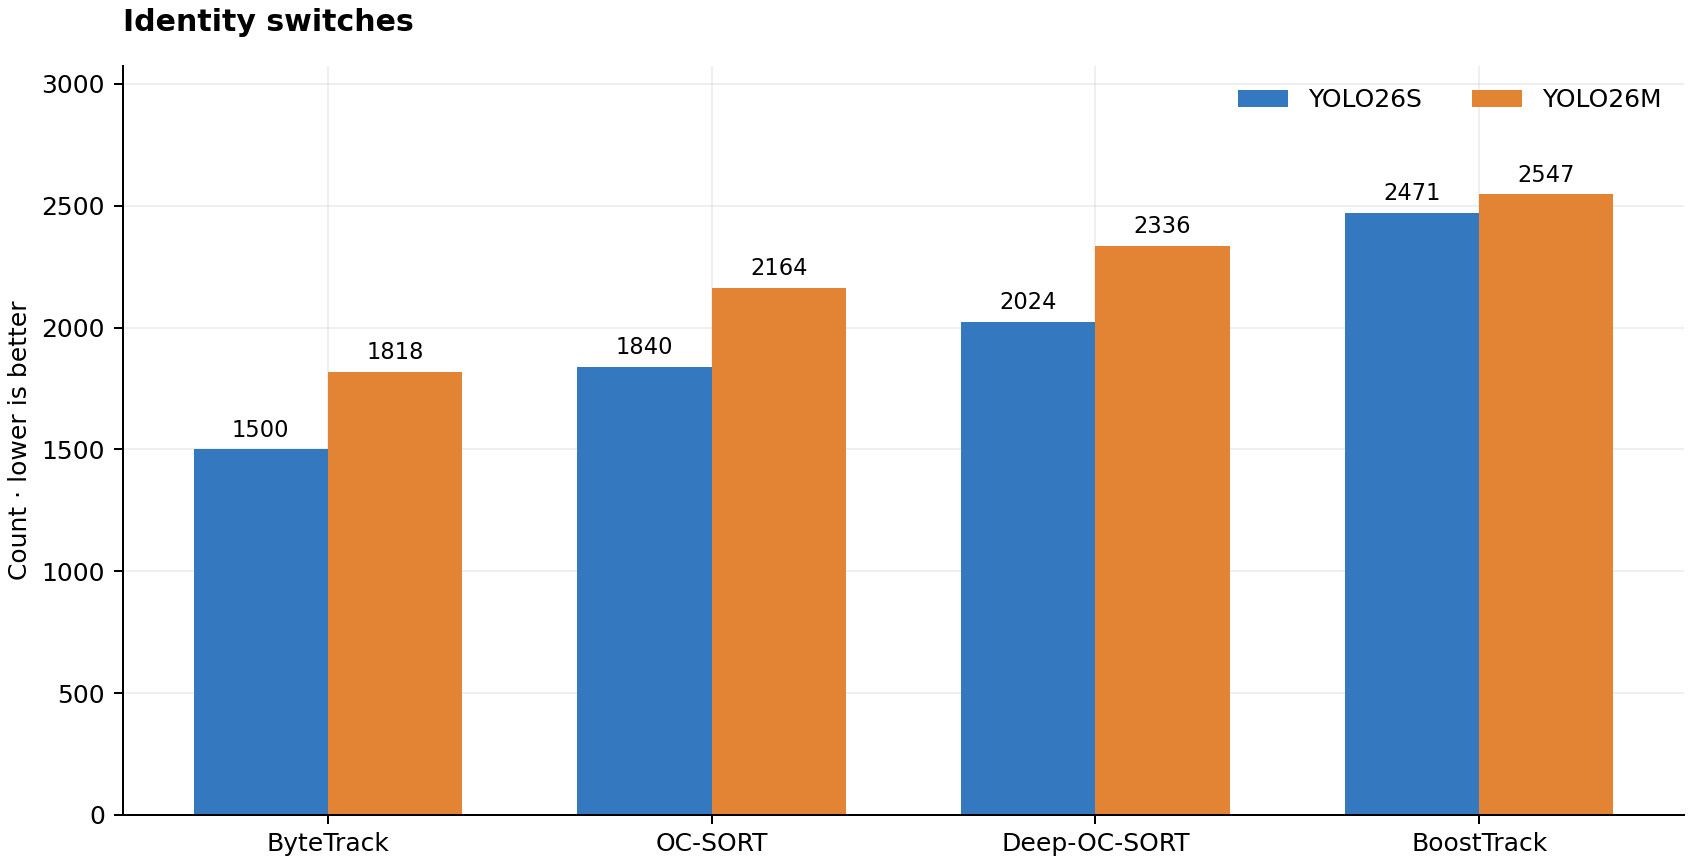
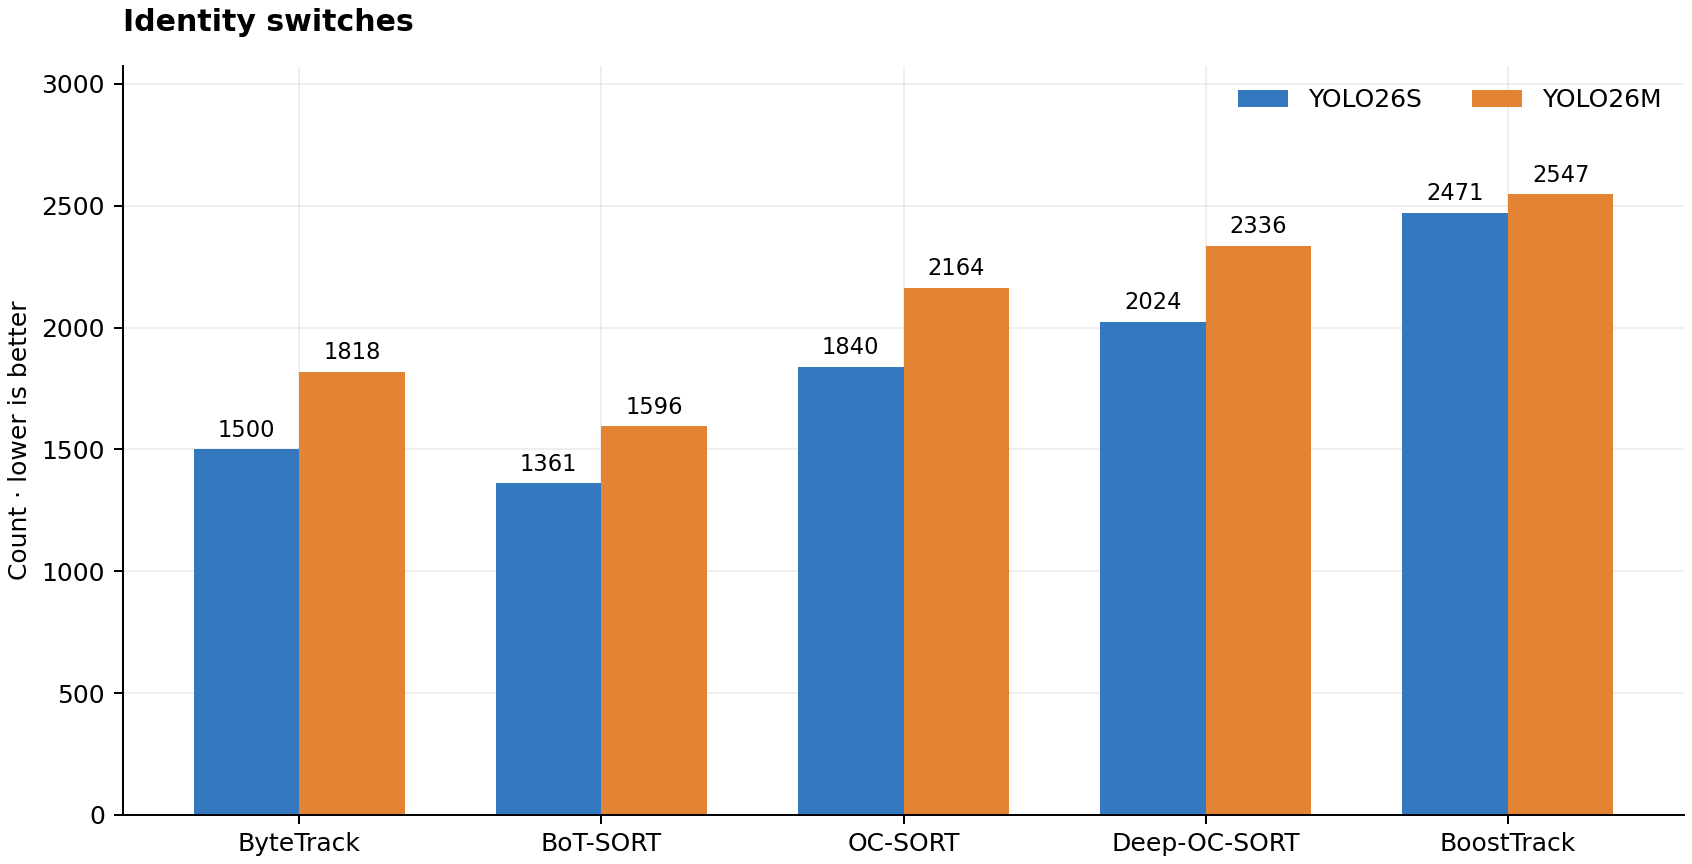
Include BoT-SORT in performance comparison figures

diff --git a/scripts/plot_comparison.py b/scripts/plot_comparison.py
@@ -18,8 +18,11 @@ with (RESULTS / 'comparison.csv').open(newline='') as handle:
     runs = list(csv.DictReader(handle))
 with (RESULTS / 'detection_metrics.csv').open(newline='') as handle:
     detection = {row['']: row for row in csv.DictReader(handle)}
+with (RESULTS / 'botsorttrack' / 'model_metrics.csv').open(newline='') as handle:
+    botsort = {row['Model']: row for row in csv.DictReader(handle)}
 
 trackers = ['ByteTrack', 'OC-SORT', 'Deep-OC-SORT', 'BoostTrack']
+accuracy_trackers = ['ByteTrack', 'BoT-SORT', 'OC-SORT', 'Deep-OC-SORT', 'BoostTrack']
 models = ['yolo26s', 'yolo26m']
 colors = {'yolo26s': '#3478C0', 'yolo26m': '#E38435'}
 by_key = {(row['detector'], row['tracker']): row for row in runs}
@@ -36,15 +39,23 @@ plt.rcParams.update({
 })
 
 
-def grouped_chart(field: str, title: str, ylabel: str, filename: str, digits: int = 1) -> None:
+def grouped_chart(field: str, title: str, ylabel: str, filename: str,
+                  digits: int = 1, include_botsort: bool = False) -> None:
     fig, ax = plt.subplots(figsize=(9.4, 4.8), layout='constrained')
-    x = np.arange(len(trackers))
+    labels = accuracy_trackers if include_botsort else trackers
+    x = np.arange(len(labels))
     width = 0.35
     for offset, model in [(-width / 2, 'yolo26s'), (width / 2, 'yolo26m')]:
-        values = [float(by_key[(model, tracker)][field]) for tracker in trackers]
+        values = [
+            float(botsort[model][{
+                'HOTA': 'HOTA (%)', 'IDF1': 'IDF1 (%)', 'MOTA': 'MOTA (%)',
+                'ID_switches': 'ID Switches', 'fragmentations': 'Frag',
+            }[field]]) if tracker == 'BoT-SORT' else float(by_key[(model, tracker)][field])
+            for tracker in labels
+        ]
         bars = ax.bar(x + offset, values, width, label=model.upper(), color=colors[model])
         ax.bar_label(bars, labels=[f'{value:.{digits}f}' for value in values], padding=3, fontsize=9)
-    ax.set_xticks(x, trackers)
+    ax.set_xticks(x, labels)
     ax.set_title(title, loc='left', weight='bold', pad=14)
     ax.set_ylabel(ylabel)
     ax.set_ylim(0, ax.get_ylim()[1] * 1.15)
@@ -53,16 +64,19 @@ def grouped_chart(field: str, title: str, ylabel: str, filename: str, digits: in
     plt.close(fig)
 
 
-grouped_chart('HOTA', 'Tracking accuracy · HOTA', 'HOTA (%) · higher is better', 'hota.png')
-grouped_chart('IDF1', 'Identity accuracy · IDF1', 'IDF1 (%) · higher is better', 'idf1.png')
-grouped_chart('MOTA', 'Tracking accuracy · MOTA', 'MOTA (%) · higher is better', 'mota.png')
+grouped_chart('HOTA', 'Tracking accuracy · HOTA', 'HOTA (%) · higher is better', 'hota.png', include_botsort=True)
+grouped_chart('IDF1', 'Identity accuracy · IDF1', 'IDF1 (%) · higher is better', 'idf1.png', include_botsort=True)
+grouped_chart('MOTA', 'Tracking accuracy · MOTA', 'MOTA (%) · higher is better', 'mota.png', include_botsort=True)
 grouped_chart('FPS', 'Processing speed', 'Frames per second · higher is better', 'fps.png')
 grouped_chart('mean_latency_ms', 'Mean processing latency', 'Milliseconds · lower is better', 'latency.png', 0)
 grouped_chart('peak_GPU_allocated_MB', 'Peak GPU allocation', 'MB · lower is better', 'gpu_memory.png', 0)
-grouped_chart('ID_switches', 'Identity switches', 'Count · lower is better', 'id_switches.png', 0)
-grouped_chart('fragmentations', 'Track fragmentations', 'Count · lower is better', 'fragmentations.png', 0)
+grouped_chart('ID_switches', 'Identity switches', 'Count · lower is better', 'id_switches.png', 0, include_botsort=True)
+grouped_chart('fragmentations', 'Track fragmentations', 'Count · lower is better', 'fragmentations.png', 0, include_botsort=True)
 
-fig, ax = plt.subplots(figsize=(9, 5.4), layout='constrained')
+fig, (ax, missing_ax) = plt.subplots(
+    1, 2, figsize=(11.5, 5.4), layout='constrained',
+    gridspec_kw={'width_ratios': [3.4, 1.4]},
+)
 for tracker in trackers:
     for model in models:
         run = by_key[(model, tracker)]
@@ -75,6 +89,17 @@ ax.set_ylim(15, 35)
 ax.set_xlabel('Frames per second · higher is better')
 ax.set_ylabel('HOTA (%) · higher is better')
 ax.set_title('Tracking accuracy versus speed', loc='left', weight='bold', pad=14)
+missing_ax.set_title('BoT-SORT', loc='left', weight='bold', pad=14)
+for y, model in enumerate(models):
+    value = float(botsort[model]['HOTA (%)'])
+    missing_ax.barh(y, value, height=0.46, color=colors[model])
+    missing_ax.text(value + 0.4, y, f'{value:.1f}%', va='center', fontsize=9)
+missing_ax.set_yticks(range(len(models)), ['YOLO26s', 'YOLO26m'])
+missing_ax.invert_yaxis()
+missing_ax.set_xlim(0, 34)
+missing_ax.set_xlabel('HOTA (%)')
+missing_ax.text(0.5, -0.2, 'End-to-end FPS not reported', transform=missing_ax.transAxes,
+                ha='center', va='top', fontsize=9)
 fig.savefig(FIGURES / 'accuracy_vs_speed.png', dpi=180)
 plt.close(fig)
 

diff --git a/docs/benchmark/tables.md b/docs/benchmark/tables.md
@@ -1,6 +1,6 @@
 # MOT20 benchmark tables and graphs
 
-All tracking scores are percentages on the MOT20 training sequences. Timings and memory are from each run’s recorded summary. BoT-SORT has no supplied measurements. See the [main README](../../README.md) for setup and limitations.
+All tracking scores are percentages on the MOT20 training sequences. Timings and memory are from each run’s recorded summary. BoT-SORT has tracking scores but no end-to-end timing or memory measurements. See the [main README](../../README.md) for setup and limitations.
 
 ## Tracking accuracy
 
@@ -14,6 +14,8 @@ All tracking scores are percentages on the MOT20 training sequences. Timings and
 | --- | --- | ---: | ---: | ---: | ---: | ---: |
 | yolo26s | ByteTrack | 22.70 | 28.00 | 20.90 | 1,500 | 3,714 |
 | yolo26m | ByteTrack | 25.00 | 32.80 | 25.90 | 1,818 | 4,469 |
+| yolo26s | BoT-SORT | 23.20 | 29.10 | 21.20 | 1,361 | 3,000 |
+| yolo26m | BoT-SORT | 26.00 | 34.40 | 26.40 | 1,596 | 3,571 |
 | yolo26s | OC-SORT | 19.97 | 23.46 | 16.82 | 1,840 | 10,652 |
 | yolo26m | OC-SORT | 21.90 | 27.50 | 20.75 | 2,164 | 12,055 |
 | yolo26s | Deep-OC-SORT | 18.73 | 21.36 | 14.76 | 2,024 | 12,327 |
@@ -54,7 +56,7 @@ The counts refer to the full four-sequence evaluation. The tracking accuracy tab
 
 ![HOTA versus FPS](figures/accuracy_vs_speed.png)
 
-Each point is one measured detector and tracker combination. Moving upward improves HOTA; moving right improves FPS. Timing reflects each run's own setup.
+Each point in the left panel has measured HOTA and end-to-end FPS. Moving upward improves HOTA; moving right improves FPS. The adjacent BoT-SORT panel shows its measured HOTA without inventing an FPS value. Timing reflects each run's own setup.
 
 ## YOLO26m versus YOLO26s
 
@@ -63,6 +65,7 @@ Changes below use YOLO26s as the baseline for the **same tracker**. Positive HOT
 | Tracker | ΔHOTA (pt) | ΔIDF1 (pt) | ΔMOTA (pt) | ΔFPS | ΔLatency (ms) | ΔGPU (MB) | ΔID switches | ΔFragmentations |
 | --- | ---: | ---: | ---: | ---: | ---: | ---: | ---: | ---: |
 | ByteTrack | +2.30 | +4.80 | +5.00 | -5.22 | +31.77 | +154.94 | +318 | +755 |
+| BoT-SORT | +2.80 | +5.30 | +5.20 | n/r | n/r | n/r | +235 | +571 |
 | OC-SORT | +1.93 | +4.04 | +3.93 | -4.39 | +23.55 | +154.94 | +324 | +1,403 |
 | Deep-OC-SORT | +1.74 | +3.77 | +3.47 | -9.04 | +39.94 | +170.10 | +312 | +2,032 |
 | BoostTrack | +2.51 | +4.14 | +4.58 | -0.75 | +26.73 | +67.79 | +76 | +69 |
@@ -98,6 +101,7 @@ Raw per-sequence TrackEval CSVs for OC-SORT, Deep-OC-SORT, and BoostTrack are li
 ## Raw results
 
 - [Combined comparison](../../results/comparison.csv) · [ByteTrack tracking](../../results/tracking_metrics.csv) · [ByteTrack system](../../results/system_metrics.csv)
+- [BoT-SORT tracking](../../results/botsorttrack/model_metrics.csv) · [BoT-SORT per-sequence results](../../results/botsorttrack/per_sequence/)
 - [OC-SORT summaries](../../results/ocsort/) · [Deep-OC-SORT summaries](../../results/deepocsort/) · [BoostTrack summaries](../../results/boosttrack/)
 
 Regenerate charts with `python scripts/plot_comparison.py` from the repository root.

diff --git a/README.md b/README.md
@@ -30,7 +30,7 @@ Tracker settings and any run-specific differences are recorded in the [configura
 
 ## Results
 
-![HOTA comparison](docs/benchmark/figures/hota (2).png)
+![HOTA comparison](docs/benchmark/figures/hota.png)
 
 ![IDF1 comparison](docs/benchmark/figures/idf1.png)
 
@@ -94,7 +94,7 @@ This profile uses a different evaluation setup from the validation table above (
 
 ![Tracking accuracy versus processing speed](docs/benchmark/figures/accuracy_vs_speed.png)
 
-The plot shows each detector and tracker combination with comparable end-to-end speed measurements, so BoT-SORT is not plotted. BoostTrack has the highest HOTA, while Deep-OC-SORT with YOLO26s has the highest recorded FPS. The [detailed benchmark report](docs/benchmark/tables.md) includes bar charts for FPS, latency, GPU memory, ID switches, and fragmentations, plus per-sequence speed.
+The plot shows measured HOTA and end-to-end FPS where both are available. BoT-SORT appears in the adjacent HOTA panel because its end-to-end FPS was not recorded. BoostTrack has the highest HOTA, while Deep-OC-SORT with YOLO26s has the highest recorded FPS. The [detailed benchmark report](docs/benchmark/tables.md) includes bar charts for FPS, latency, GPU memory, ID switches, and fragmentations, plus per-sequence speed.
 
 | Tracker | ΔHOTA (pt) | ΔIDF1 (pt) | ΔMOTA (pt) | ΔFPS | ΔLatency (ms) | ΔGPU (MB) | ΔID switches | ΔFragmentations |
 | --- | ---: | ---: | ---: | ---: | ---: | ---: | ---: | ---: |
